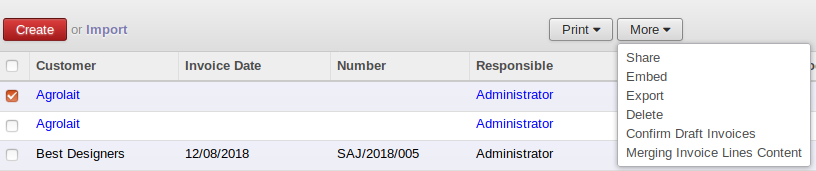
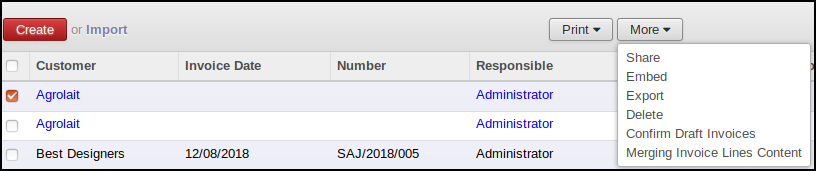
wip

Changed region(s): [[0.0, 0.0, 1.0, 1.0]]

diff --git a/mass_operation_abstract/README.rst b/mass_operation_abstract/README.rst
@@ -1,1 +1,78 @@
-TODO
+=======================
+Mass Operation Abstract
+=======================
+
+.. !!!!!!!!!!!!!!!!!!!!!!!!!!!!!!!!!!!!!!!!!!!!!!!!!!!!
+   !! This file is generated by oca-gen-addon-readme !!
+   !! changes will be overwritten.                   !!
+   !!!!!!!!!!!!!!!!!!!!!!!!!!!!!!!!!!!!!!!!!!!!!!!!!!!!
+
+.. |badge1| image:: https://img.shields.io/badge/maturity-Beta-yellow.png
+    :target: https://odoo-community.org/page/development-status
+    :alt: Beta
+.. |badge2| image:: https://img.shields.io/badge/licence-AGPL--3-blue.png
+    :target: http://www.gnu.org/licenses/agpl-3.0-standalone.html
+    :alt: License: AGPL-3
+.. |badge3| image:: https://img.shields.io/badge/github-legalsylvain%2Fgrap--odoo--incubator-lightgray.png?logo=github
+    :target: https://github.com/legalsylvain/grap-odoo-incubator/tree/8.0_ADD_mass_merging_line/mass_operation_abstract
+    :alt: legalsylvain/grap-odoo-incubator
+
+|badge1| |badge2| |badge3| 
+
+This module provides generic tools to develop modules that process mass
+operations on any models.
+
+
+**Table of contents**
+
+.. contents::
+   :local:
+
+Known issues / Roadmap
+======================
+
+* Propose this module in the OCA. (server-tools repository)
+
+* refactor ``mass_editing`` ``mass_sorting`` OCA modules to use this module.
+
+* Develop new modules: 
+
+1. ``mass_linking`` to have the possibility to get all the
+   items of related items. (for exemple, get the list of all the partners of
+   selected sale orders)
+
+2. ``mass_scripting`` to have the possibility to execute custom python code
+   on any model, for selected items.
+
+Bug Tracker
+===========
+
+Bugs are tracked on `GitHub Issues <https://github.com/legalsylvain/grap-odoo-incubator/issues>`_.
+In case of trouble, please check there if your issue has already been reported.
+If you spotted it first, help us smashing it by providing a detailed and welcomed
+`feedback <https://github.com/legalsylvain/grap-odoo-incubator/issues/new?body=module:%20mass_operation_abstract%0Aversion:%208.0_ADD_mass_merging_line%0A%0A**Steps%20to%20reproduce**%0A-%20...%0A%0A**Current%20behavior**%0A%0A**Expected%20behavior**>`_.
+
+Do not contact contributors directly about support or help with technical issues.
+
+Credits
+=======
+
+Authors
+~~~~~~~
+
+* GRAP
+
+Contributors
+~~~~~~~~~~~~
+
+* Sylvain LE GAL (https://www.twitter.com/legalsylvain)
+
+Maintainers
+~~~~~~~~~~~
+
+
+
+This module is part of the `legalsylvain/grap-odoo-incubator <https://github.com/legalsylvain/grap-odoo-incubator/tree/8.0_ADD_mass_merging_line/mass_operation_abstract>`_ project on GitHub.
+
+
+You are welcome to contribute.

diff --git a/mass_merging_content/readme/CONFIGURE.rst b/mass_merging_content/readme/CONFIGURE.rst
@@ -16,7 +16,7 @@
    (usefull for ``integer`` and ``float`` fields)
 
 3. 'Join Texts': the value of this field will be joined.
-    (usefull for ``char`` fields)
+   (usefull for ``char`` fields)
 
 4. 'Related Value': the value will be recomputed, based on the given extra
    argument.

diff --git a/mass_merging_content/readme/USAGE.rst b/mass_merging_content/readme/USAGE.rst
@@ -2,6 +2,9 @@
 
 * select items and click on 'More' and on the new button
 
+.. figure:: ../static/description/account_invoice_tree.png
+
+
 * the opened pop up display the number of selected items
 
 .. figure:: ../static/description/wizard_form_ok.png
